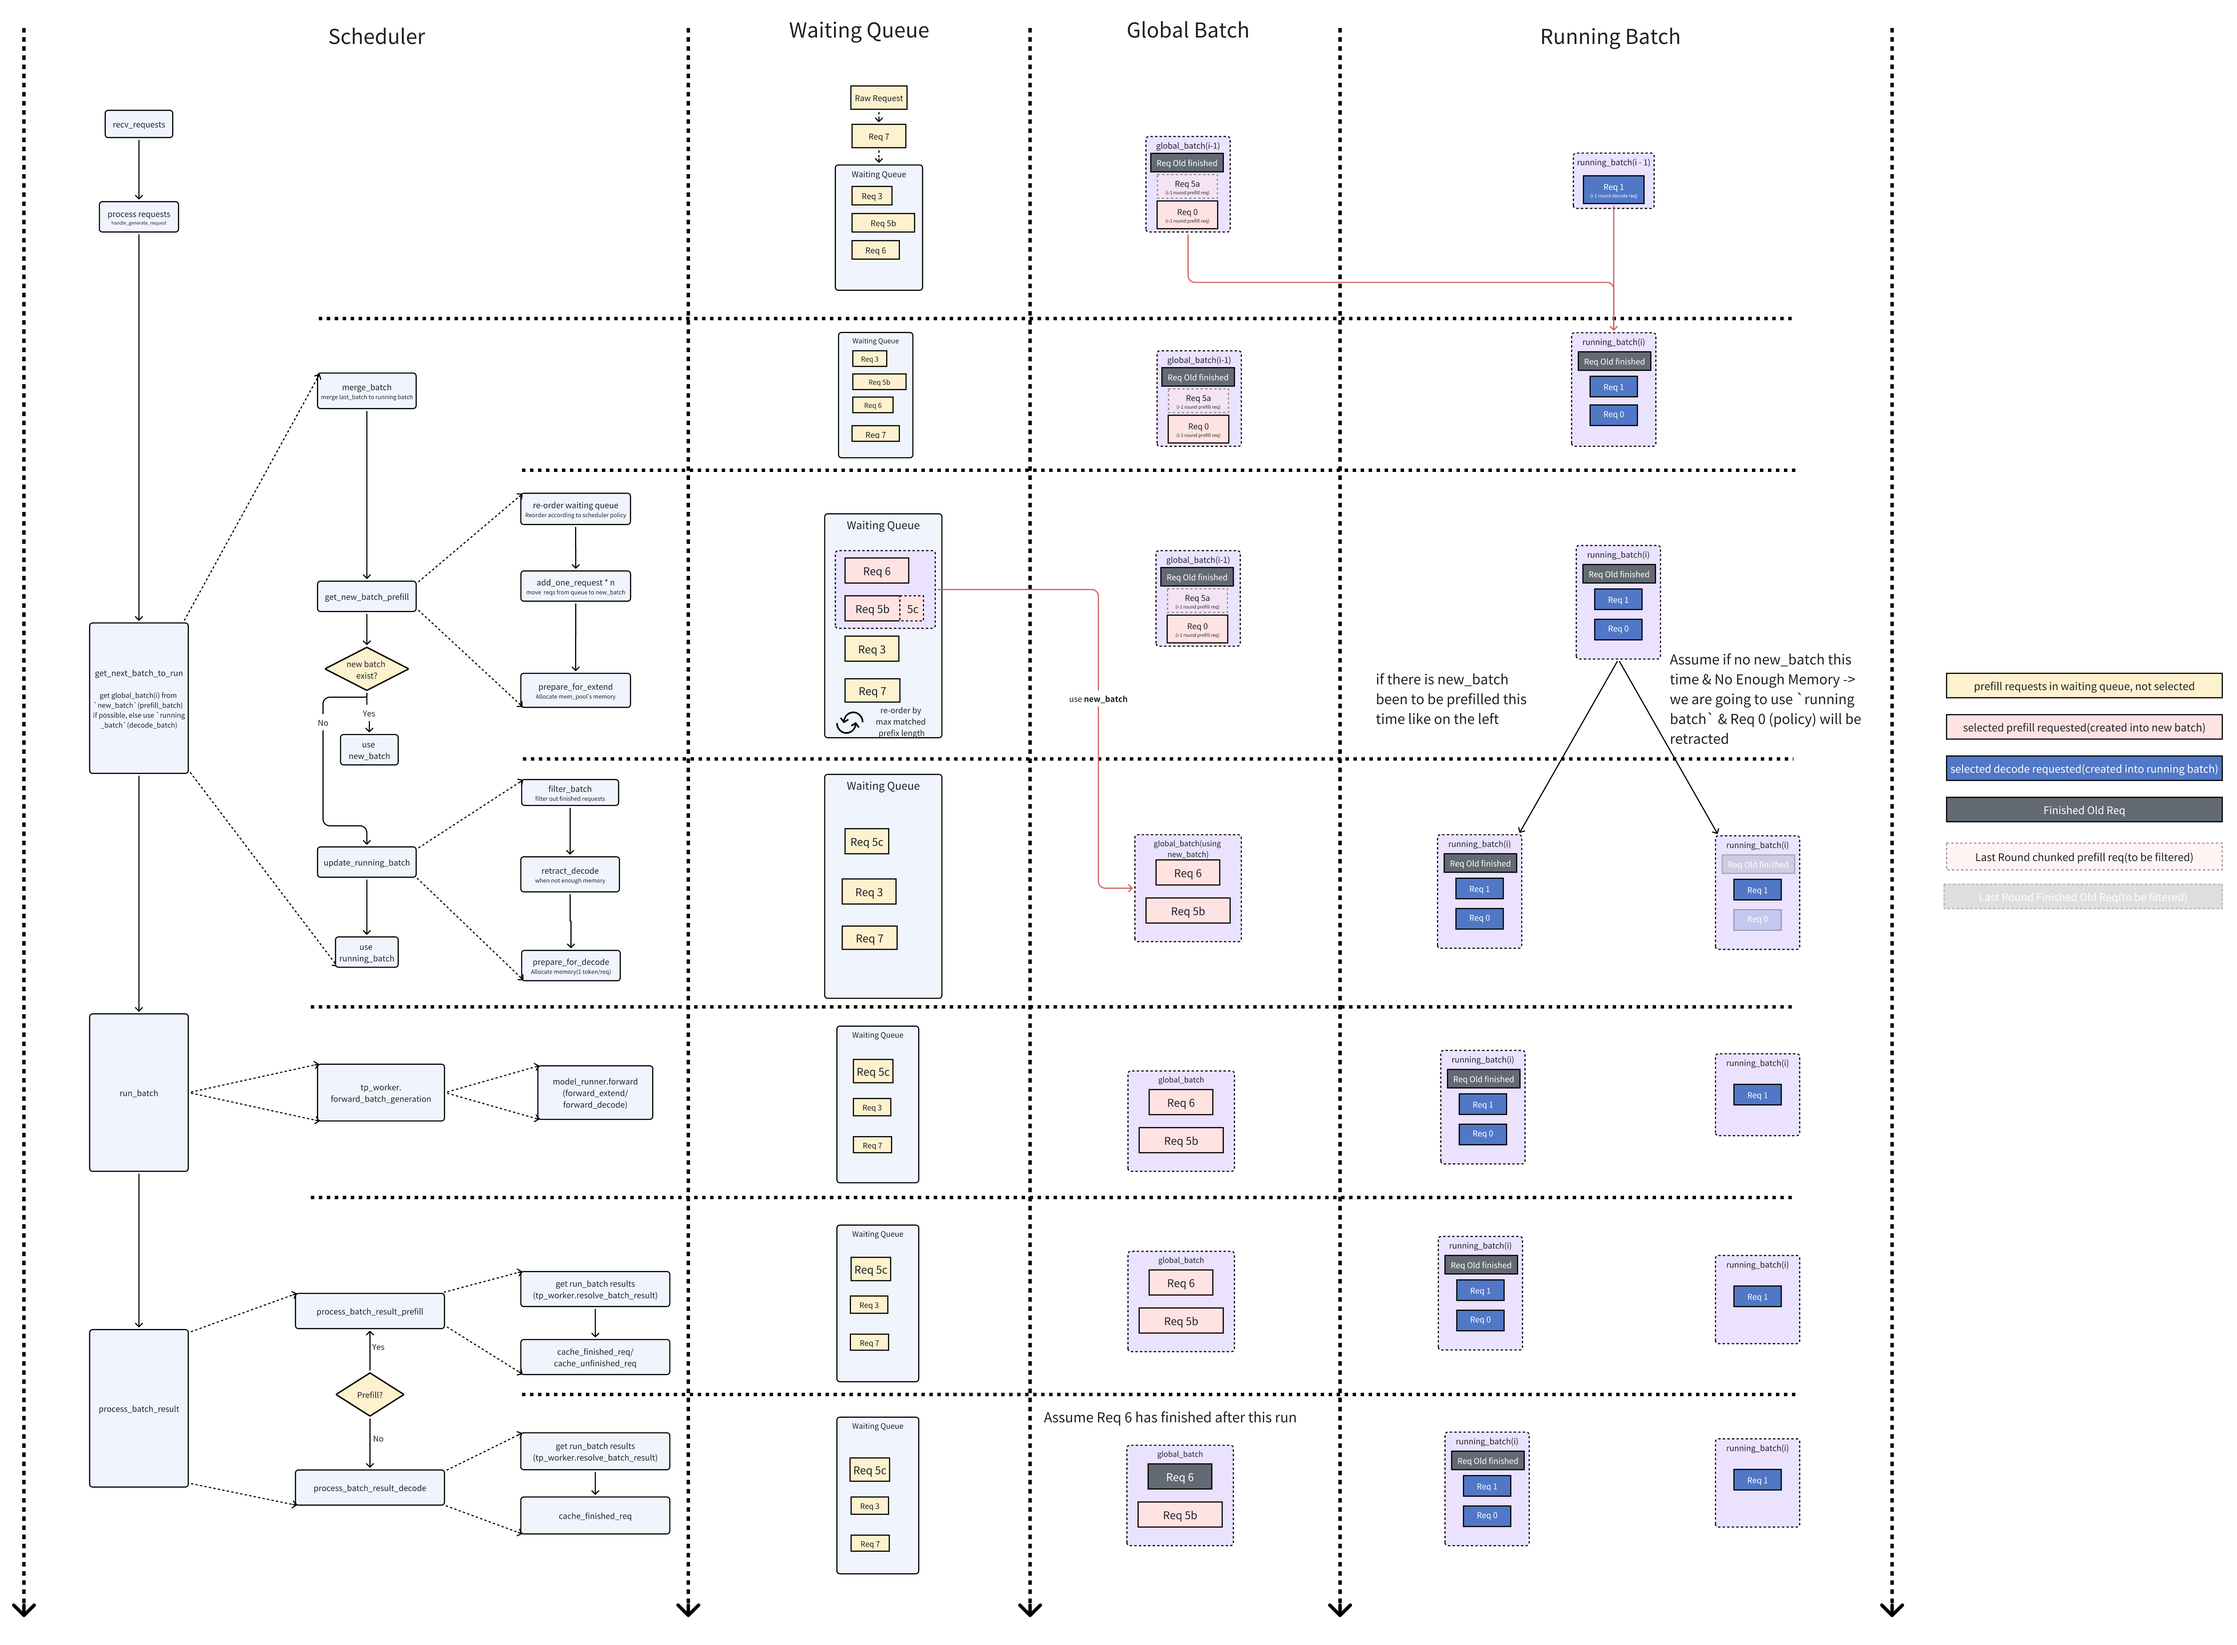
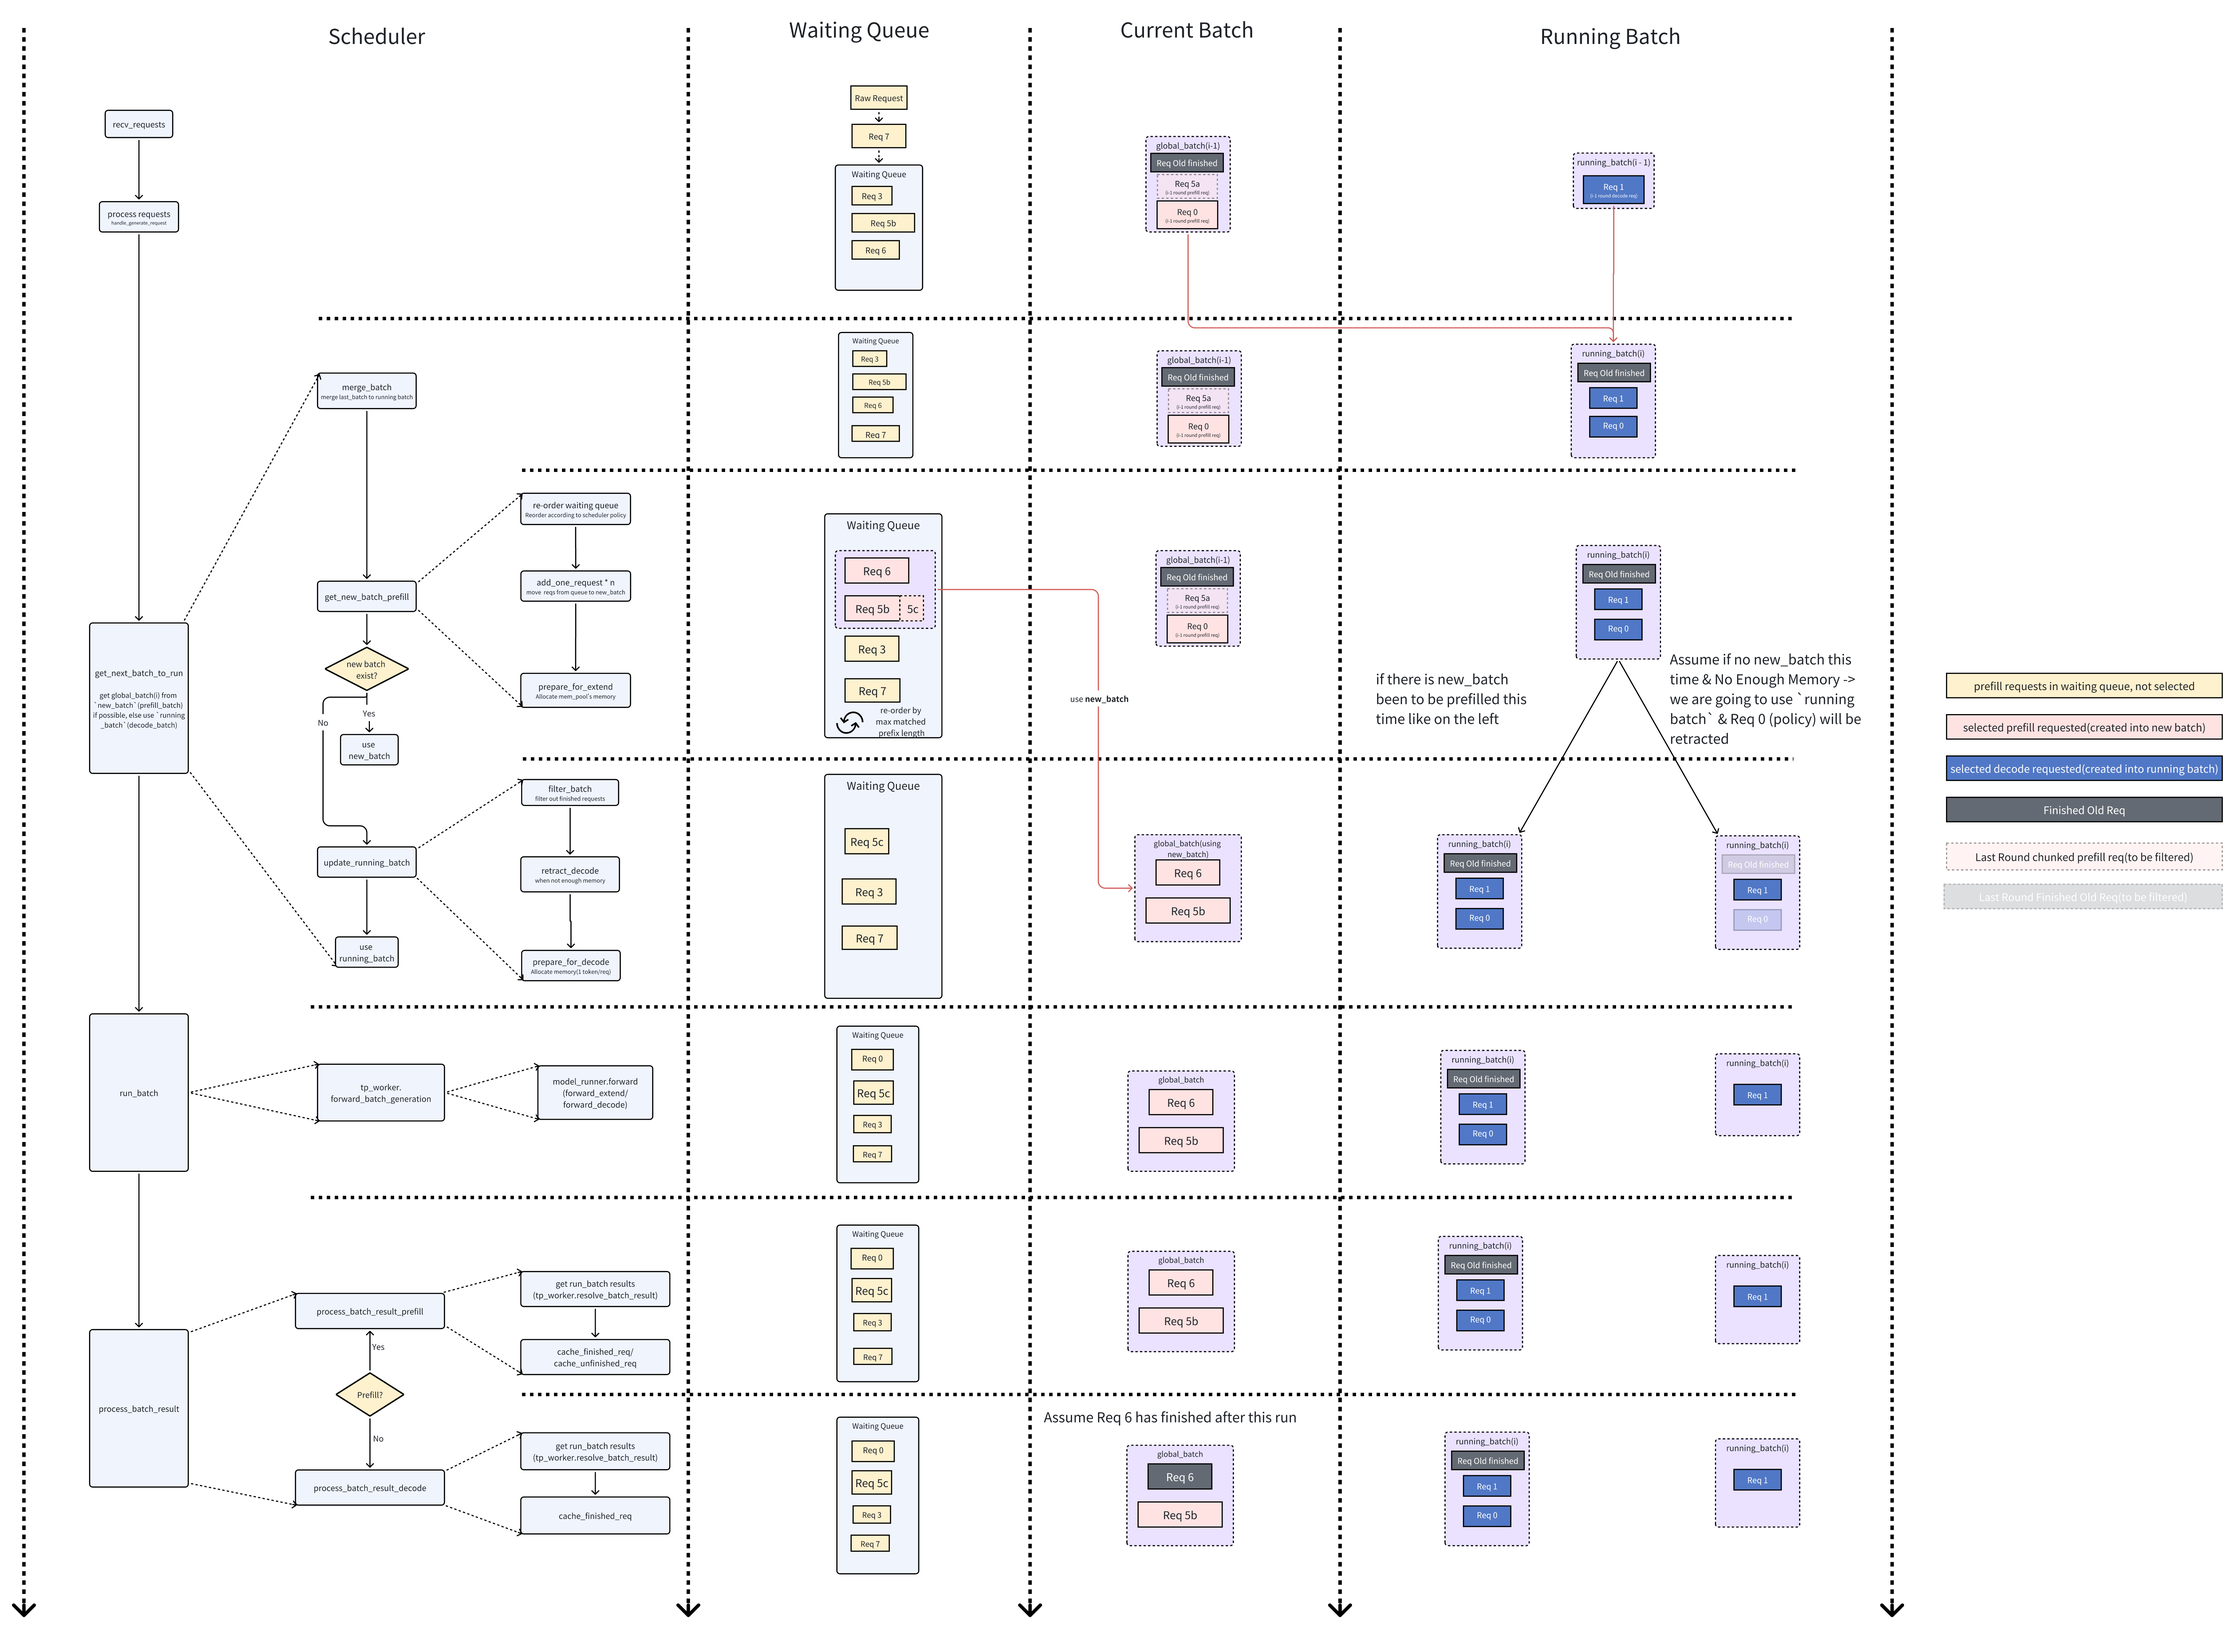
fix: scheduler description todo

diff --git a/sglang/kvcache-code-walk-through/readme.md b/sglang/kvcache-code-walk-through/readme.md
@@ -102,7 +102,6 @@ A batch of requests that are ready for prefill/extend stage.
 - **Some Additional Key Points**
   - `cur_batch` is assigned in `event_loop_normal`.
   - The logic of forming `cur_batch`is: If there's requests ready for prefill (`new_batch`) in this cycle, use `new_batch` as `cur_batch`. Otherwise, `cur_batch` would process those that are ready for decode, thus use `running_batch` as `cur_batch`.  
-<!-- TODO(yangming): change the diagram -->
 
 ## Scheduler Overview
 
@@ -116,12 +115,38 @@ The figure illustrates how the **Scheduler** directs requests from the `waiting_
 The Scheduler continuously calls `recv_requests` to collect newly arrived requests, validate them and place them into the `waiting_queue`. In our example, `Req 7` are received and enqueued.
 
 #### 2. **Merge Batches**
-Before form the new batch for this round, Scheduler would merge the `cur_batch` from last round into `running_batch`. (In the diagram, `cur_batch` from last round are shown as `cur_batch(i-1)` and `running_batch` are shown as `running_batch(i-1)`. In our example, `Req 0` and `Req 1` will be merged together into the new `running_batch`. **Merge Batch** will also remove the last round `being_chunked_request`. `being_chunked_request` is the chunked prefilled request generated during the `get_new_batch_prefill` process. (In the diagram, there are finished `being_chunked_request` e.g., `Req 5a` which means the first part of `Req 5`), we will remove this as we do not want them to do decode phase.) 
-<!-- TODO(yangming):  1. add why we would remove 2. add how req5a req5b req5c's being chuncked, and how they are being used in the global batch -->
+Before form the new batch for this round, Scheduler would merge the `cur_batch` from last round into `running_batch`. In the diagram, `cur_batch` from last round are shown as `cur_batch(i-1)` and `running_batch` are shown as `running_batch(i-1)`. In our example, `Req 0` and `Req 1` will be merged together into the new `running_batch`. 
+
+During this process, the scheduler also removes the last round's `being_chunked_request`. These chunked requests (like `Req 5a`) are temporary fragments created solely for prefill operations to store KV cache, and are not meant to proceed to the decode phase. They serve their purpose once the KV cache is stored and should be removed.
+
+To better understand the chunking process, let's look at how `Req 5` is handled:
+1. Initially, `Req 5` enters the waiting queue as a single long request
+2. During the first prefill attempt, due to memory constraints, it's split into `Req 5a` and `Req 5b`
+3. After `Req 5a` is processed and its KV cache is stored, it's removed as a `being_chunked_request`
+4. In the current round, when trying to process `Req 5b`, it still exceeds the resource limit
+5. Therefore, `Req 5b` is further split into a new `Req 5b` (which goes into the global batch) and `Req 5c` (which stays in the waiting queue)
 
 #### 3. **Forming the New Batch**:
-Scheduler would check if a `new_batch` could be formed (in `get_new_batch_prefill`), all the requests that can fit available memory would be packed in the batch. If the size of the last request to put into the batch is larger than the remaining available memory, the request will be chunked as `being_chunked_request`. In out example diagram, the Scheduler pulls requests from the `waiting_queue` and creates a `new_batch`(e.g., `Req 6`, `Req 5b`, `Req 5b` is the `being_chunked_request`), and use the `new_batch` as `cur_batch`. Not demonstrated in the diagram but if there is no `new_batch`, the `running_batch` will be filtered(e.g., `Req 1`, `Req 0` will be kept while `Old Finished Req` will be removed), and then be used as `cur_batch`. Also, if the GPU memory is not enough, some decoding requests may be retracted according to certain retract policy. During the `retract_decode` phase, in the diagram, `Req 0` is retracted.
-<!-- TODO(yangming): 0. structure the wording same with how diagram structure 1. add reorder section with assumption that we are using longest prefix 2. explain the logic that its pulled in sequence, pull req6 because -> pull req5b because -->
+The process of forming a new batch consists of three main steps:
+
+1. **Reorder Waiting Queue**:
+   - The scheduler reorders requests based on its scheduling policy
+   - By default, it prioritizes requests with the longest prefix in the radix cache
+   - This maximizes the reuse of existing KV cache entries
+
+2. **Request Selection**:
+   - Requests are selected one by one from the reordered queue
+   - In our example:
+     - `Req 6` is selected first as it has the longest prefix match in the cache
+     - `Req 5b` is selected next as there's still available memory
+     - However, `Req 5b` exceeds the memory limit and is further split into `Req 5b` and `Req 5c`
+     - `Req 5b` is added to the new batch while `Req 5c` remains in the waiting queue
+
+3. **Prepare for Extend**:
+   - Once the new batch is formed, space is allocated for the selected requests
+   - This includes allocating space in both req_to_token and token_to_kv pools
+
+If no new batch can be formed, the scheduler will filter the running batch (removing finished requests like `Old Finished Req`) and use it as the current batch. Additionally, if GPU memory becomes insufficient, some decoding requests may be retracted according to the retraction policy. In our example, `Req 0` is retracted during this process.
 
 #### 4. **Running the Batch**: 
 Once the **Global Batch** is determined, `run_batch` is called to run a forward pass.
